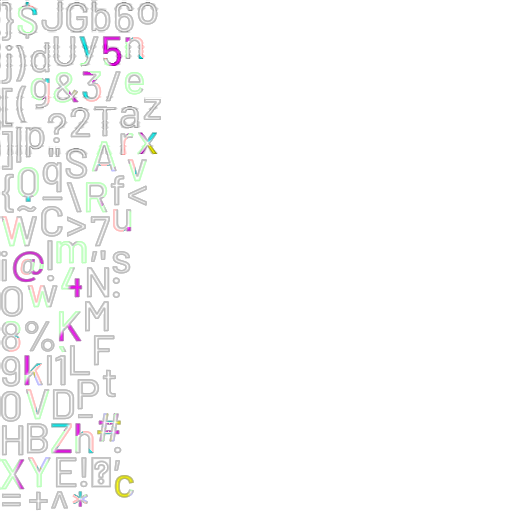
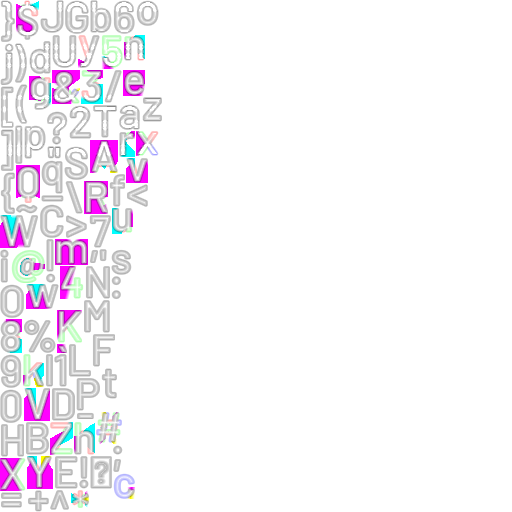
create preprocessed MSDF hybrid fonts.

Changed region(s): [[0.0, 0.0, 0.3125, 1.0]]

diff --git a/historic/simpleapp/src/index.js b/historic/simpleapp/src/index.js
@@ -19,10 +19,10 @@ let hotState = module.hot && module.hot.data || {};
 /** The main function. */
 function start() {
     let robotoPromise = fontRegistry.getAtlasFor("Roboto");
-    //let loraPromise = fontRegistry.getAtlasFor("Lora");
-    //let barlowPromise = fontRegistry.getAtlasFor("Barlow");
+    let loraPromise = fontRegistry.getAtlasFor("Lora");
+    let barlowPromise = fontRegistry.getAtlasFor("Barlow");
 
-    Promise.all([robotoPromise/*, loraPromise, barlowPromise*/]).then(() => {
+    Promise.all([robotoPromise, loraPromise, barlowPromise]).then(() => {
 
     const ALL_ISLANDS = {};
     let currentRoomName = null;

diff --git a/historic/simpleapp/src/sampleRooms/room3.js b/historic/simpleapp/src/sampleRooms/room3.js
@@ -35,7 +35,7 @@ export default function initRoom3(state) {
 
         const text1 = new Text({
             spatial: { position: new THREE.Vector3(-3, 1.0, 0) },
-            text: { content: [{text: "man is much more than a tool builder... he is an inventor of universes... Except the real one."}], numLines: 10, width: 3, height: 2}
+            text: { content: [{text: "man is much more than a tool builder... he is an inventor of universes... Except the real one."}], font: "Lora", numLines: 10, width: 3, height: 2}
         });
         room.parts.objects.add(text1);
     });

diff --git a/historic/simpleapp/src/viewParts/text.js b/historic/simpleapp/src/viewParts/text.js
@@ -13,7 +13,7 @@ if (module.bundle.v) { console.log(`Hot reload ${moduleVersion}`); module.bundle
 
 export default class TextViewPart extends Object3D {
     fromOptions(options) {
-        options = {content: [], glyphs: [], font: "Roboto", width: 3, height: 2, numLines: 10, editable: false, ...options};
+        options = {content: [], glyphs: [], font: "Lora", width: 3, height: 2, numLines: 10, editable: false, ...options};
         this.modelSource = options.modelSource;
         this.options = options;
 
